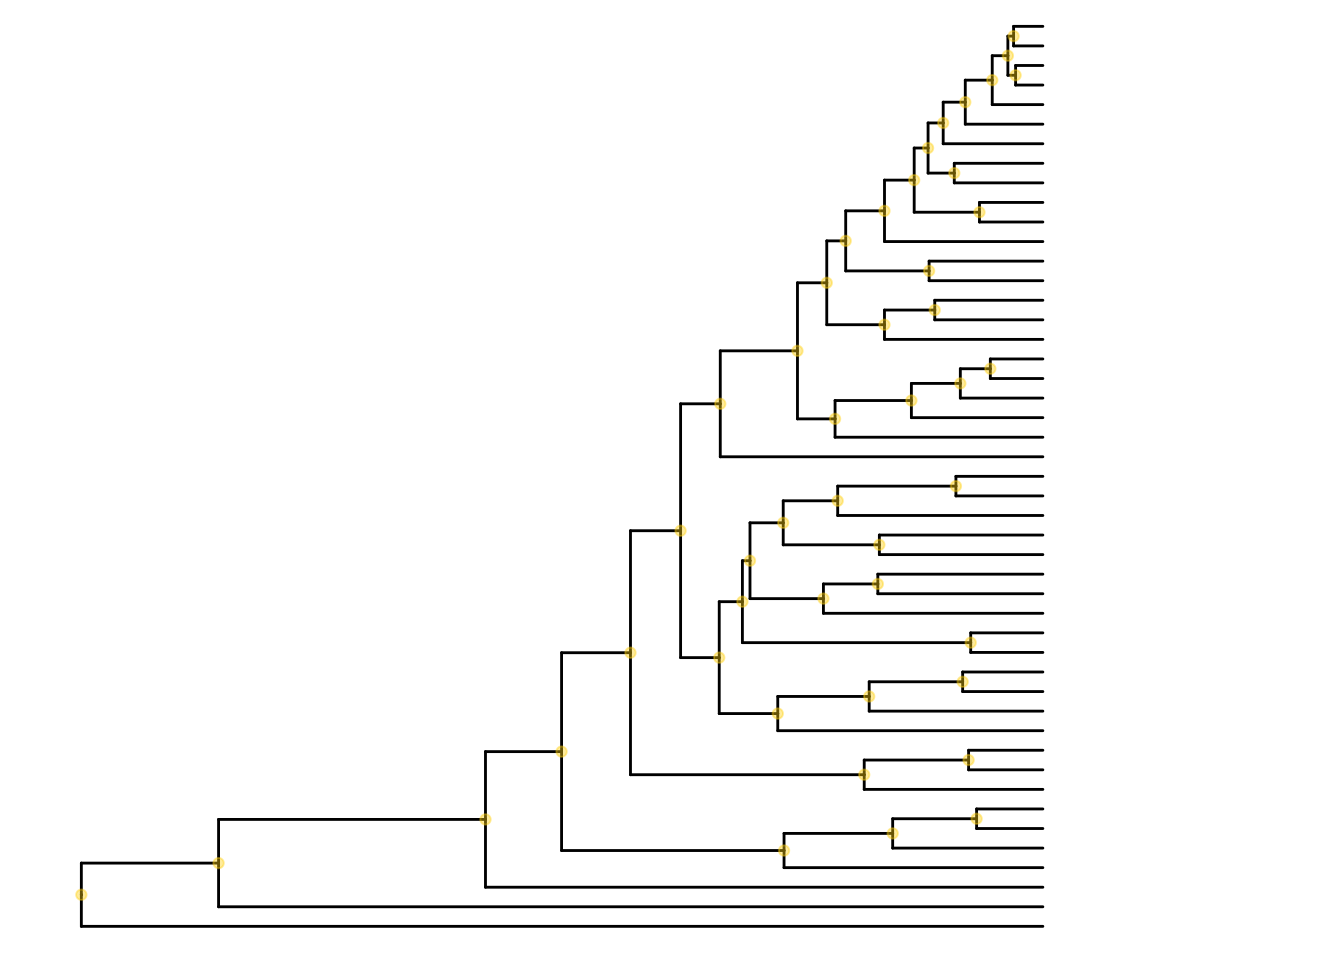
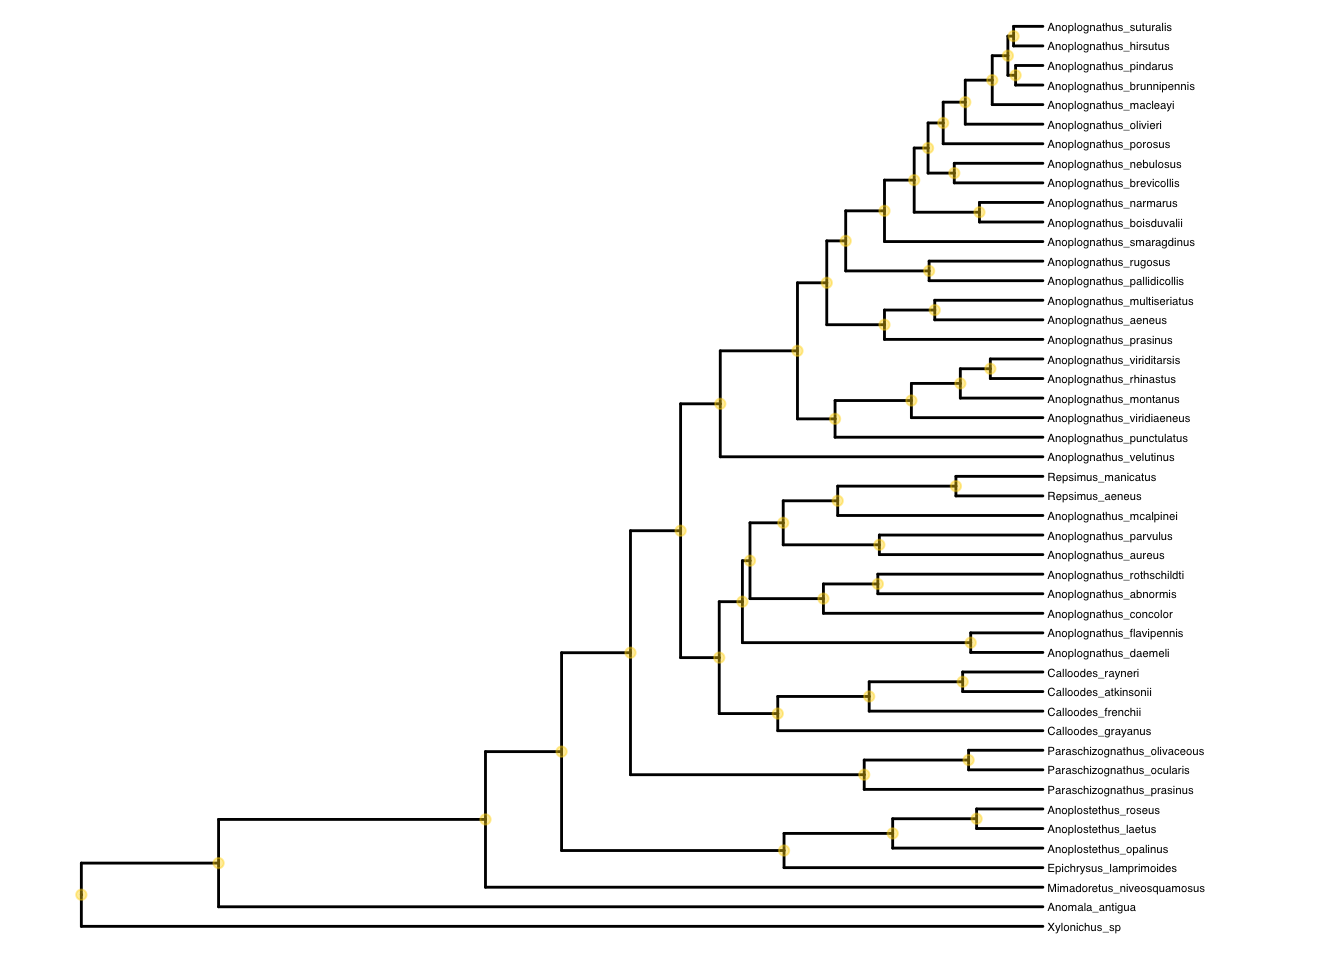
feat: fix png image (#2)

Changed region(s): [[0.7812, 0.0, 0.9062, 0.9688]]

diff --git a/docs/MacroEcol_3_EcologicalVariables.html b/docs/MacroEcol_3_EcologicalVariables.html
@@ -1759,7 +1759,7 @@ NA
 0.00000
 </td>
 <td style="text-align:right;">
-0.00000
+0e+00
 </td>
 <td style="text-align:right;">
 0.00000
@@ -1785,7 +1785,7 @@ MaxT
 NA
 </td>
 <td style="text-align:right;">
-0.00000
+0e+00
 </td>
 <td style="text-align:right;">
 0.10765
@@ -1837,7 +1837,7 @@ Clouds
 0.10765
 </td>
 <td style="text-align:right;">
-0.00002
+2e-05
 </td>
 <td style="text-align:right;">
 NA
@@ -1863,7 +1863,7 @@ Rain
 0.00000
 </td>
 <td style="text-align:right;">
-0.00020
+2e-04
 </td>
 <td style="text-align:right;">
 0.00000
@@ -1889,7 +1889,7 @@ Vapour
 0.00000
 </td>
 <td style="text-align:right;">
-0.00000
+0e+00
 </td>
 <td style="text-align:right;">
 0.00000
@@ -1915,7 +1915,7 @@ AridityN
 0.00019
 </td>
 <td style="text-align:right;">
-0.00000
+0e+00
 </td>
 <td style="text-align:right;">
 0.00000
@@ -2091,6 +2091,9 @@ clouds, which in turn correlates with more plant coverage.</p>
 more days above 35 and more aridity.</p>
 <p><br></p>
 <p><img src="../Data/RmdImages/PCarrows.png" /></p>
+<div class="sourceCode" id="cb27"><pre class="sourceCode r"><code class="sourceCode r"><span id="cb27-1"><a href="#cb27-1" aria-hidden="true" tabindex="-1"></a>im<span class="ot">&lt;-</span><span class="fu">load.image</span>(<span class="st">&quot;../Data/RmdImages/PCarrows.png&quot;</span>)</span>
+<span id="cb27-2"><a href="#cb27-2" aria-hidden="true" tabindex="-1"></a><span class="fu">plot</span>(im, <span class="at">axes =</span> <span class="cn">FALSE</span>)</span></code></pre></div>
+<p><img src="MacroEcol_3_EcologicalVariables_files/figure-html/unnamed-chunk-19-1.png" width="672" /></p>
 </div>
 
 
